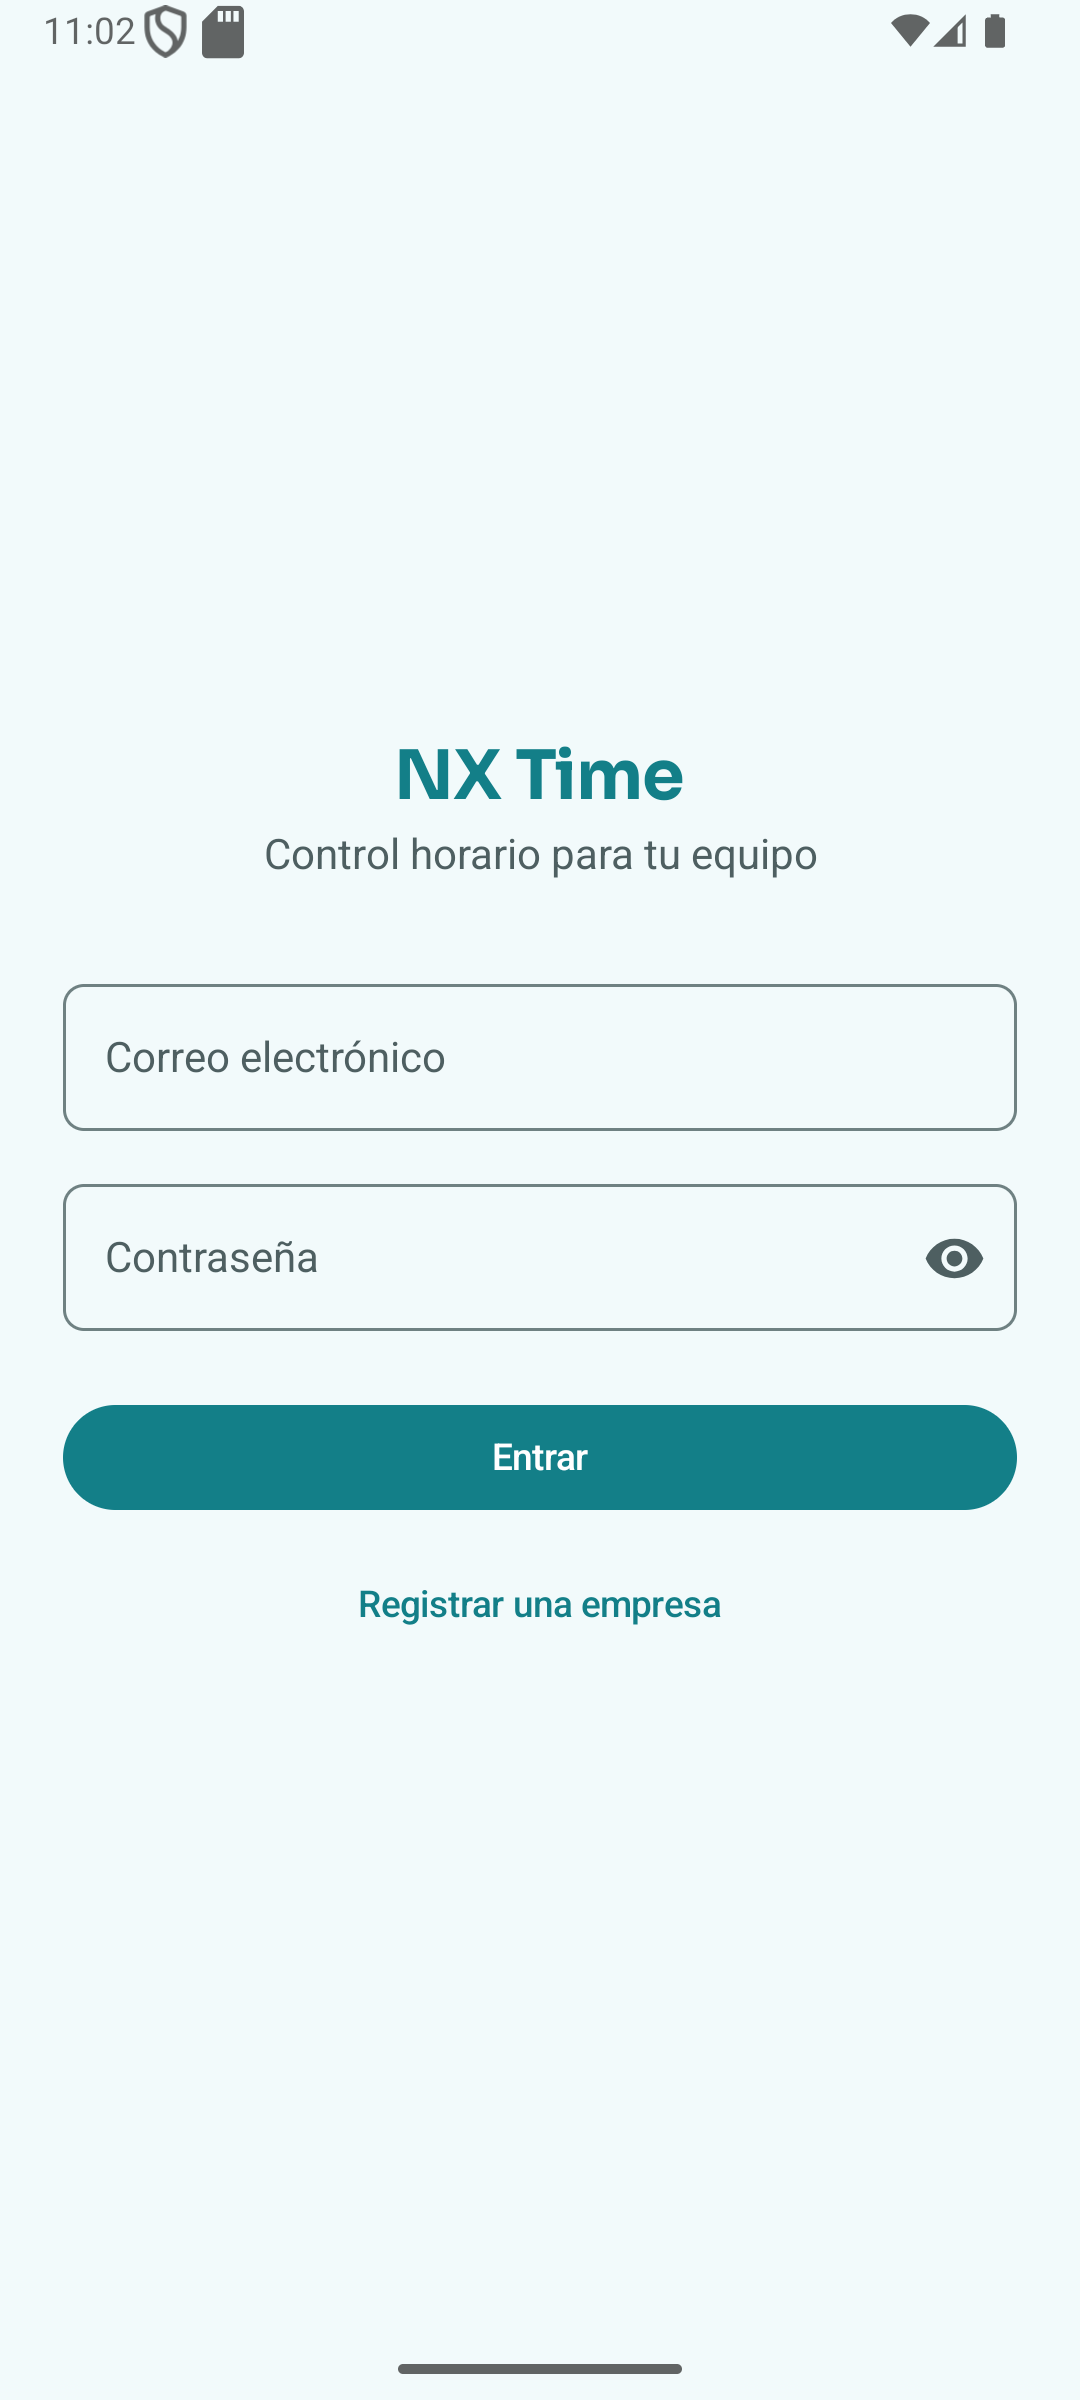
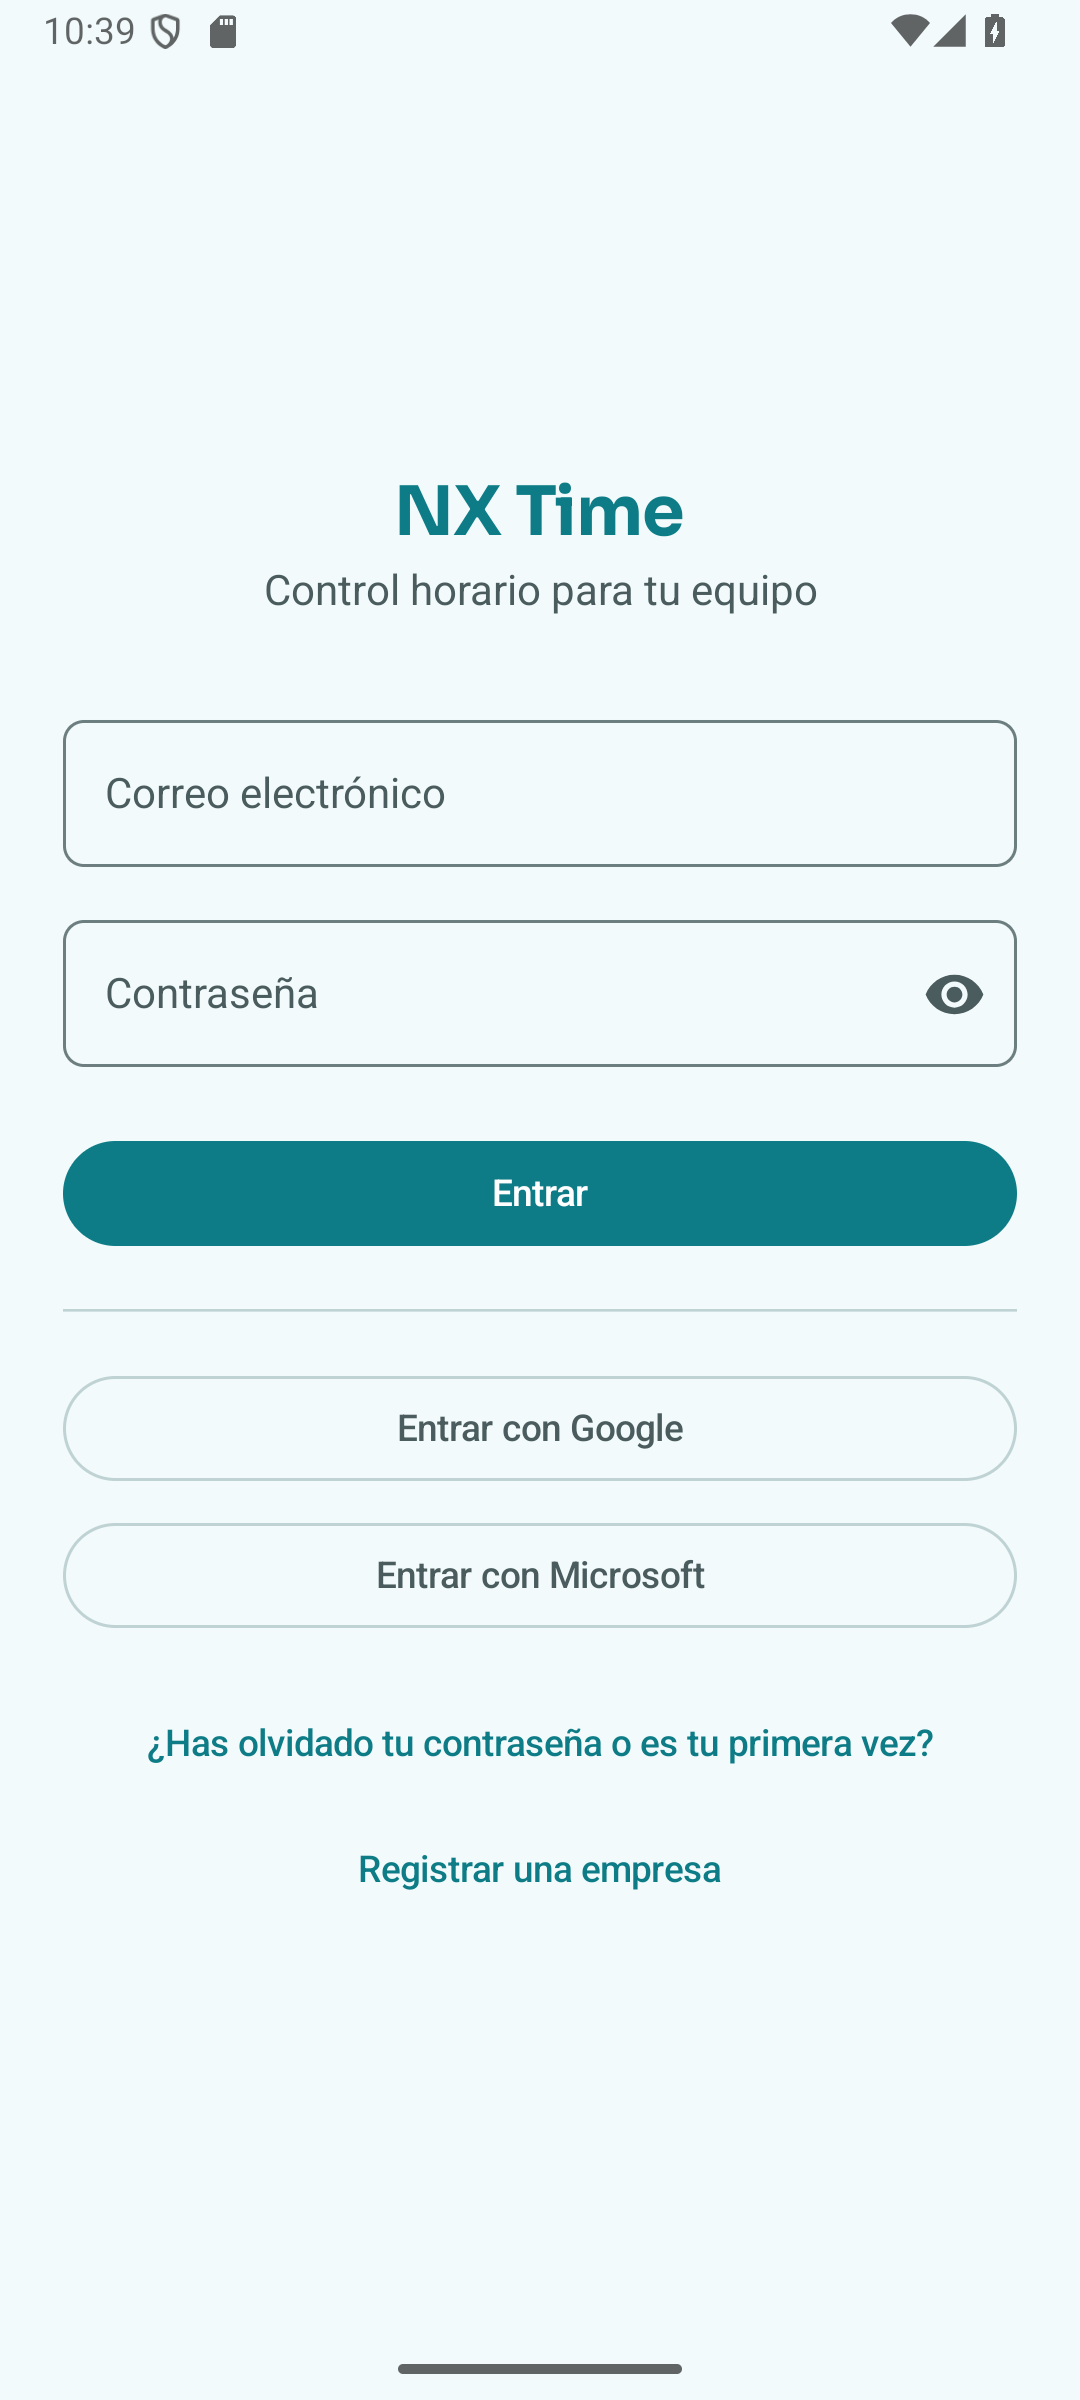
Cierre del plan del 6/10: el SSO en el README y las capturas del acceso
El README dice en qué está el SSO: hecho, apagado hasta poner las
credenciales, y sin probar contra Google ni Microsoft de verdad. El ADR 036
entra en la lista de decisiones.

Capturas rehechas de la pantalla de acceso de la web y de la app, con los
botones de entrar con otra cuenta. La spec de capturas espera a que la red se
calme antes de sacar la del acceso: los botones llegan del servidor un
instante después.

diff --git a/nx-time-frontend-web/e2e/capturas.spec.ts b/nx-time-frontend-web/e2e/capturas.spec.ts
@@ -76,6 +76,11 @@ test.describe('escritorio', () => {
   test('la pantalla de entrar, con su panel de marca', async ({ page }) => {
     await page.goto('/');
     await expect(page.getByLabel('Correo electrónico')).toBeVisible();
+    // Los botones de «Entrar con Google / Microsoft» (ADR 036) llegan del
+    // servidor un instante después, y solo si este tiene el SSO configurado:
+    // para que salgan en la captura, el backend tiene que arrancarse con él
+    // (ver la cabecera de sso.spec.ts). Sin él, la captura sale sin botones.
+    await page.waitForLoadState('networkidle');
     await capturar(page, 'web-12-acceso');
   });
 

diff --git a/README.md b/README.md
@@ -604,6 +604,7 @@ Las decisiones no obvias están justificadas en [`docs/adr/`](docs/adr/):
 33. [Fichaje en kiosco: un dispositivo que solo ficha, tarjeta QR firmada y PIN por persona](docs/adr/033-fichaje-en-kiosco.md)
 34. [Endurecimiento de octubre: confirmar el correo al registrarse y topes donde no los había](docs/adr/034-endurecimiento-de-octubre.md)
 35. [El sistema visual de la web: el ancho, el acento de cada zona y piezas compartidas](docs/adr/035-sistema-visual-de-la-web.md)
+36. [Entrar con Google o con Microsoft: solo para quien ya tiene cuenta, y a quién se le cree el correo](docs/adr/036-entrar-con-google-o-microsoft.md)
 
 ---
 
@@ -628,6 +629,18 @@ la única forma de recibirlas ([ADR 031](docs/adr/031-push-en-la-web.md)). Tiene
 (Playwright contra el backend de verdad con Postgres y la demo: todos los
 recorridos, accesibilidad con axe en todas las páginas, móvil en Chromium y
 WebKit, y la carga por áreas).
+
+**Hecho y sin encender: entrar con Google o con Microsoft**
+([ADR 036](docs/adr/036-entrar-con-google-o-microsoft.md)), en la web y en la
+app, para quien ya tiene cuenta: no crea usuarios, y la contraseña sigue
+valiendo. Lo que decide si alguien entra no es el correo sino la cuenta del
+proveedor, una vez vinculada; el correo solo sirve la primera vez, y solo si el
+proveedor lo garantiza (el de Microsoft no siempre). Está apagado hasta poner
+las credenciales de cada proveedor
+([`docs/DESPLIEGUE.md`](docs/DESPLIEGUE.md)), y **no se ha probado contra
+Google ni contra Microsoft de verdad**: sí de punta a punta, en un navegador y
+en un emulador de Android, contra un proveedor de mentira que firma sus
+propios ID token.
 
 **Pendiente:**
 

diff --git a/docs/capturas/README.md b/docs/capturas/README.md
@@ -17,7 +17,7 @@ que se ven salen de los usuarios y fichajes que siembra `DemoDataSeeder`.
 
 | Captura | Qué muestra |
 |---|---|
-| `01-login.png` | Pantalla de acceso |
+| `01-login.png` | Pantalla de acceso, con «Entrar con Google» y «Entrar con Microsoft» (ADR 036): solo salen si el servidor tiene configurado el proveedor |
 | `02-login-error-credenciales.png` | El `detail` del ProblemDetail del backend llegando a la pantalla, en vez del código HTTP |
 | `03-registro-empresa.png` | Alta de empresa y de su cuenta de administrador |
 | `04-fichar-sin-jornada.png` | "Mi jornada" sin jornada abierta: el botón es un círculo |
@@ -96,4 +96,4 @@ repiten con un comando**: `npm run capturas` en `nx-time-frontend-web/`
 | `web-09-kiosco.png` | El kiosco de fichaje en una tablet (ADR 033): espera una tarjeta QR por la cámara, o que alguien busque su nombre y teclee su PIN. La imagen es la cámara de prueba de Chromium |
 | `web-10-integridad.png` | La integridad de la auditoría a lo ancho: lo comprobado anoche en cifras, «comprobar ahora» con su resultado en verde, y al lado el «cómo funciona» en tres puntos. Antes eran dos tarjetas en una columna de 560 px |
 | `web-11-calendario-laboral.png` | El calendario laboral: el mes en rejilla con los festivos pintados y la lista al lado. Pulsar un día libre abre «nuevo festivo» con esa fecha |
-| `web-12-acceso.png` | La pantalla de entrar en escritorio, con el panel de marca |
+| `web-12-acceso.png` | La pantalla de entrar en escritorio, con el panel de marca y, debajo del formulario, los enlaces para entrar con Google o con Microsoft (ADR 036) |
